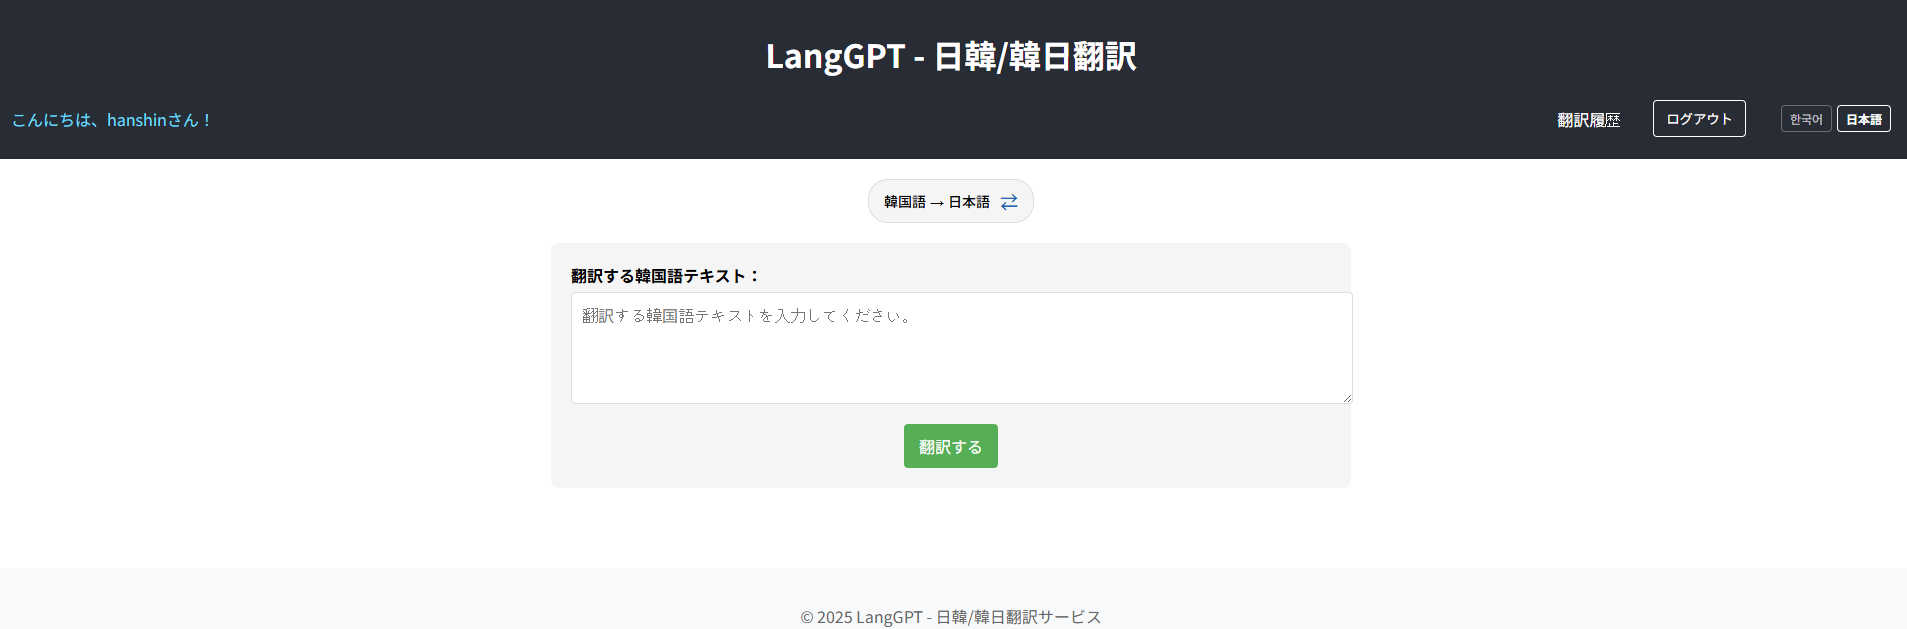
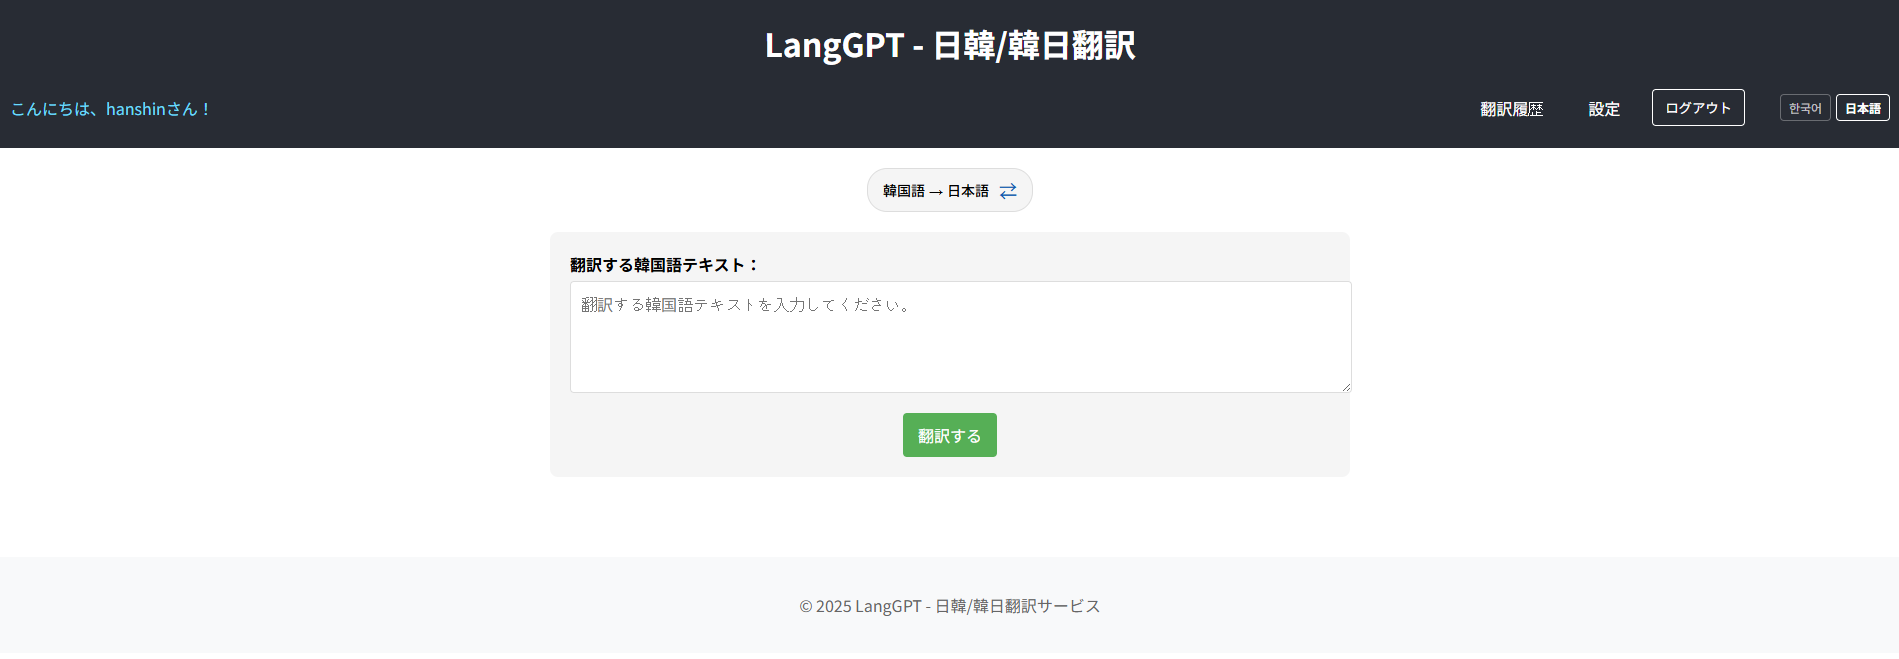
스크린샷 추가, README 수정

diff --git a/backend.py b/backend.py
@@ -1,4 +1,4 @@
-from fastapi import FastAPI, HTTPException
+from fastapi import FastAPI, HTTPException, Header
 from fastapi.middleware.cors import CORSMiddleware
 from pydantic import BaseModel
 import os
@@ -17,6 +17,9 @@ from sqlalchemy import Column, Integer, String, create_engine
 from sqlalchemy.orm import sessionmaker, declarative_base  # 최신 방식 사용
 from sqlalchemy.orm import Session
 import uuid
+from fastapi.middleware.httpsredirect import HTTPSRedirectMiddleware
+from fastapi.middleware.trustedhost import TrustedHostMiddleware
+from starlette.middleware.sessions import SessionMiddleware
 
 # .env 파일 로드
 load_dotenv()
@@ -33,6 +36,25 @@ app.add_middleware(
     allow_methods=["GET", "POST", "OPTIONS"],  # 필요한 메소드만 허용
     allow_headers=["Content-Type", "Authorization", "Accept"],  # 필요한 헤더만 허용
 )
+
+# HTTPS 강제화 (프로덕션 환경에서)
+if os.getenv("ENVIRONMENT") == "production":
+    app.add_middleware(HTTPSRedirectMiddleware)
+
+# 신뢰할 수 있는 호스트만 허용
+app.add_middleware(
+    TrustedHostMiddleware, 
+    allowed_hosts=[frontend_url.replace("https://", ""), "localhost"]
+)
+
+# 보안 헤더 미들웨어 (CSRF 방지 등)
+@app.middleware("http")
+async def add_security_headers(request, call_next):
+    response = await call_next(request)
+    response.headers["X-Content-Type-Options"] = "nosniff"
+    response.headers["X-Frame-Options"] = "DENY"
+    response.headers["X-XSS-Protection"] = "1; mode=block"
+    return response
 
 # 데이터베이스 설정
 DATABASE_URL = os.getenv("DATABASE_URL", "postgresql://postgres:비밀번호@localhost/langgpt")
@@ -308,14 +330,15 @@ ja_to_ko_review_prompt = ChatPromptTemplate.from_template("""
 async def translate(
     request: TranslationRequest,
     current_user: User = Depends(get_current_user),
-    db: Session = Depends(get_db)
+    db: Session = Depends(get_db),
+    api_key: str = Header(..., alias="X-API-KEY")  # 헤더에서 API 키 추출
 ):
     try:
-        # 사용자 제공 API 키 사용
-        if not request.api_key or not request.api_key.startswith("sk-"):
+        # API 키 검증
+        if not api_key or not api_key.startswith("sk-"):
             raise HTTPException(
                 status_code=400,
-                detail="Valid OpenAI API key is required. Please check your API key in settings."
+                detail="Valid OpenAI API key is required"
             )
         
         # 사용자의 일일 번역 횟수 확인
@@ -337,7 +360,7 @@ async def translate(
         
         # 사용자 API 키로 LLM 인스턴스 생성
         user_llm = ChatOpenAI(
-            api_key=request.api_key,  # 사용자 제공 API 키 사용
+            api_key=api_key,
             model="gpt-4.1-mini",
             temperature=0.7,
             max_tokens=2000
@@ -386,8 +409,12 @@ async def translate(
         return result
         
     except Exception as e:
-        print(f"Error during translation: {str(e)}")
-        raise HTTPException(status_code=500, detail=f"Translation failed: {str(e)}")
+        # 로그에서 민감 정보 제거
+        error_message = str(e)
+        if "sk-" in error_message:
+            error_message = "[API Key related error - details removed for security]"
+        print(f"Error during translation: {error_message}")
+        raise HTTPException(status_code=500, detail="Translation failed")
 
 # 번역 기록 조회 API
 @app.get("/history")

diff --git a/README.md b/README.md
@@ -10,6 +10,10 @@ LangGPT is an AI-powered translation service specializing in Korean-Japanese bid
 - **User Authentication**: Secure JWT-based authentication system
 - **Responsive Design**: Support for both mobile and desktop environments
 - **Bilingual Interface**: Full support for both Korean and Japanese UI
+- **User API Keys**: Users provide their own OpenAI API keys for translation operations
+
+## 🌐 Live Demo
+Try out the live version: [https://langgpt-six.vercel.app/](https://langgpt-six.vercel.app/)
 
 ## 🛠 Technology Stack
 ### Backend
@@ -33,6 +37,7 @@ LangGPT is an AI-powered translation service specializing in Korean-Japanese bid
 - Node.js 16.x or higher
 - Python 3.9 or higher
 - PostgreSQL
+- OpenAI API Key (required for each user)
 
 ### Backend Setup
 ```bash
@@ -49,7 +54,7 @@ pip install -r requirements.txt
 
 # Set up environment variables
 cp .env.example .env
-# Edit .env file
+# Edit .env file with your database and JWT settings
 
 # Run server
 uvicorn backend:app --reload
@@ -63,32 +68,63 @@ cd frontend
 # Install dependencies
 npm install
 
+# Set up environment variables
+cp .env.example .env
+# Edit .env file with your backend URL
+
 # Start development server
 npm start
 ```
 
 ## 📄 Environment Variable Setup
 ```
-# .env file
+# Backend .env file
 DATABASE_URL=postgresql://username:password@localhost/langgpt
-OPENAI_API_KEY=your_openai_api_key
 SECRET_KEY=your_jwt_secret_key
+FRONTEND_URL=http://localhost:3000
+
+# Frontend .env file
+REACT_APP_API_URL=http://localhost:8000
 ```
+
+## ⚠ API Key Requirements
+Each user needs to provide their own OpenAI API key to use the translation service:
+- API keys are securely stored in the browser session
+- API keys are never permanently stored on the server
+- Users can manage their API keys in the Settings page
+- Visit [OpenAI Platform](https://platform.openai.com/api-keys) to generate an API key
+
+## 🚢 Deployment
+
+### Backend Deployment (Render)
+1. Create a new Web Service on Render
+2. Connect your GitHub repository
+3. Add environment variables:
+   - `DATABASE_URL`: Your PostgreSQL database URL
+   - `SECRET_KEY`: Secret key for JWT
+   - `FRONTEND_URL`: URL of your frontend application
+4. Deploy with the following settings:
+   - Build Command: `pip install -r requirements.txt`
+   - Start Command: `uvicorn backend:app --host 0.0.0.0 --port $PORT`
+
+### Frontend Deployment (Vercel)
+1. Import your GitHub repository on Vercel
+2. Add environment variables:
+   - `REACT_APP_API_URL`: URL of your backend API
+3. Deploy with default settings
 
 ## 📂 Project Structure
 ```
 LangGPT/
 ├── backend.py           # FastAPI backend server
 ├── requirements.txt     # Python dependencies
-├── Procfile            # Deployment configuration for hosting platforms
-├── .gitignore          # Git ignore configuration
 ├── .env                # Environment variables (development)
 ├── .env.example        # Example environment variables template
+├── screenshots/        # Application screenshots
 └── frontend/           # React frontend application
     ├── public/         # Static files
     ├── package.json    # Node.js dependencies
-    ├── .env            # Frontend environment variables (development)
-    ├── .env.production # Frontend environment variables (production)
+    ├── .env            # Frontend environment variables
     └── src/
         ├── App.js      # Main application component
         ├── App.css     # Main stylesheet
@@ -103,6 +139,7 @@ LangGPT/
         ├── components/ # React components
         │   ├── Login.js      # Login component
         │   ├── Register.js   # Registration component
+        │   ├── Settings.js   # API key management component
         │   └── TranslationHistory.js # History component
         └── context/    # React context management
             └── AuthContext.js # Authentication context
@@ -112,6 +149,9 @@ LangGPT/
 
 ### Main Translation Screen
 <img alt="Main Screen" src="./screenshots/main_screen.png" width="800">
+
+### API Key Settings
+<img alt="Settings Screen" src="./screenshots/settings_screen.png" width="800">
 
 ### Login Screen
 <img alt="Login Screen" src="./screenshots/login_screen.png">
@@ -128,6 +168,11 @@ LangGPT/
 
 ### User Data Management
 - Users can store and access their translation history for easy reference to previous translations
+
+### API Key Management
+- Secure management of user OpenAI API keys
+- Keys stored only in browser session for enhanced security
+- Detailed instructions for obtaining and setting up API keys
 
 ## 👨💻 Developer Information
 - **Name**: HAN SHIN (韓 信)
